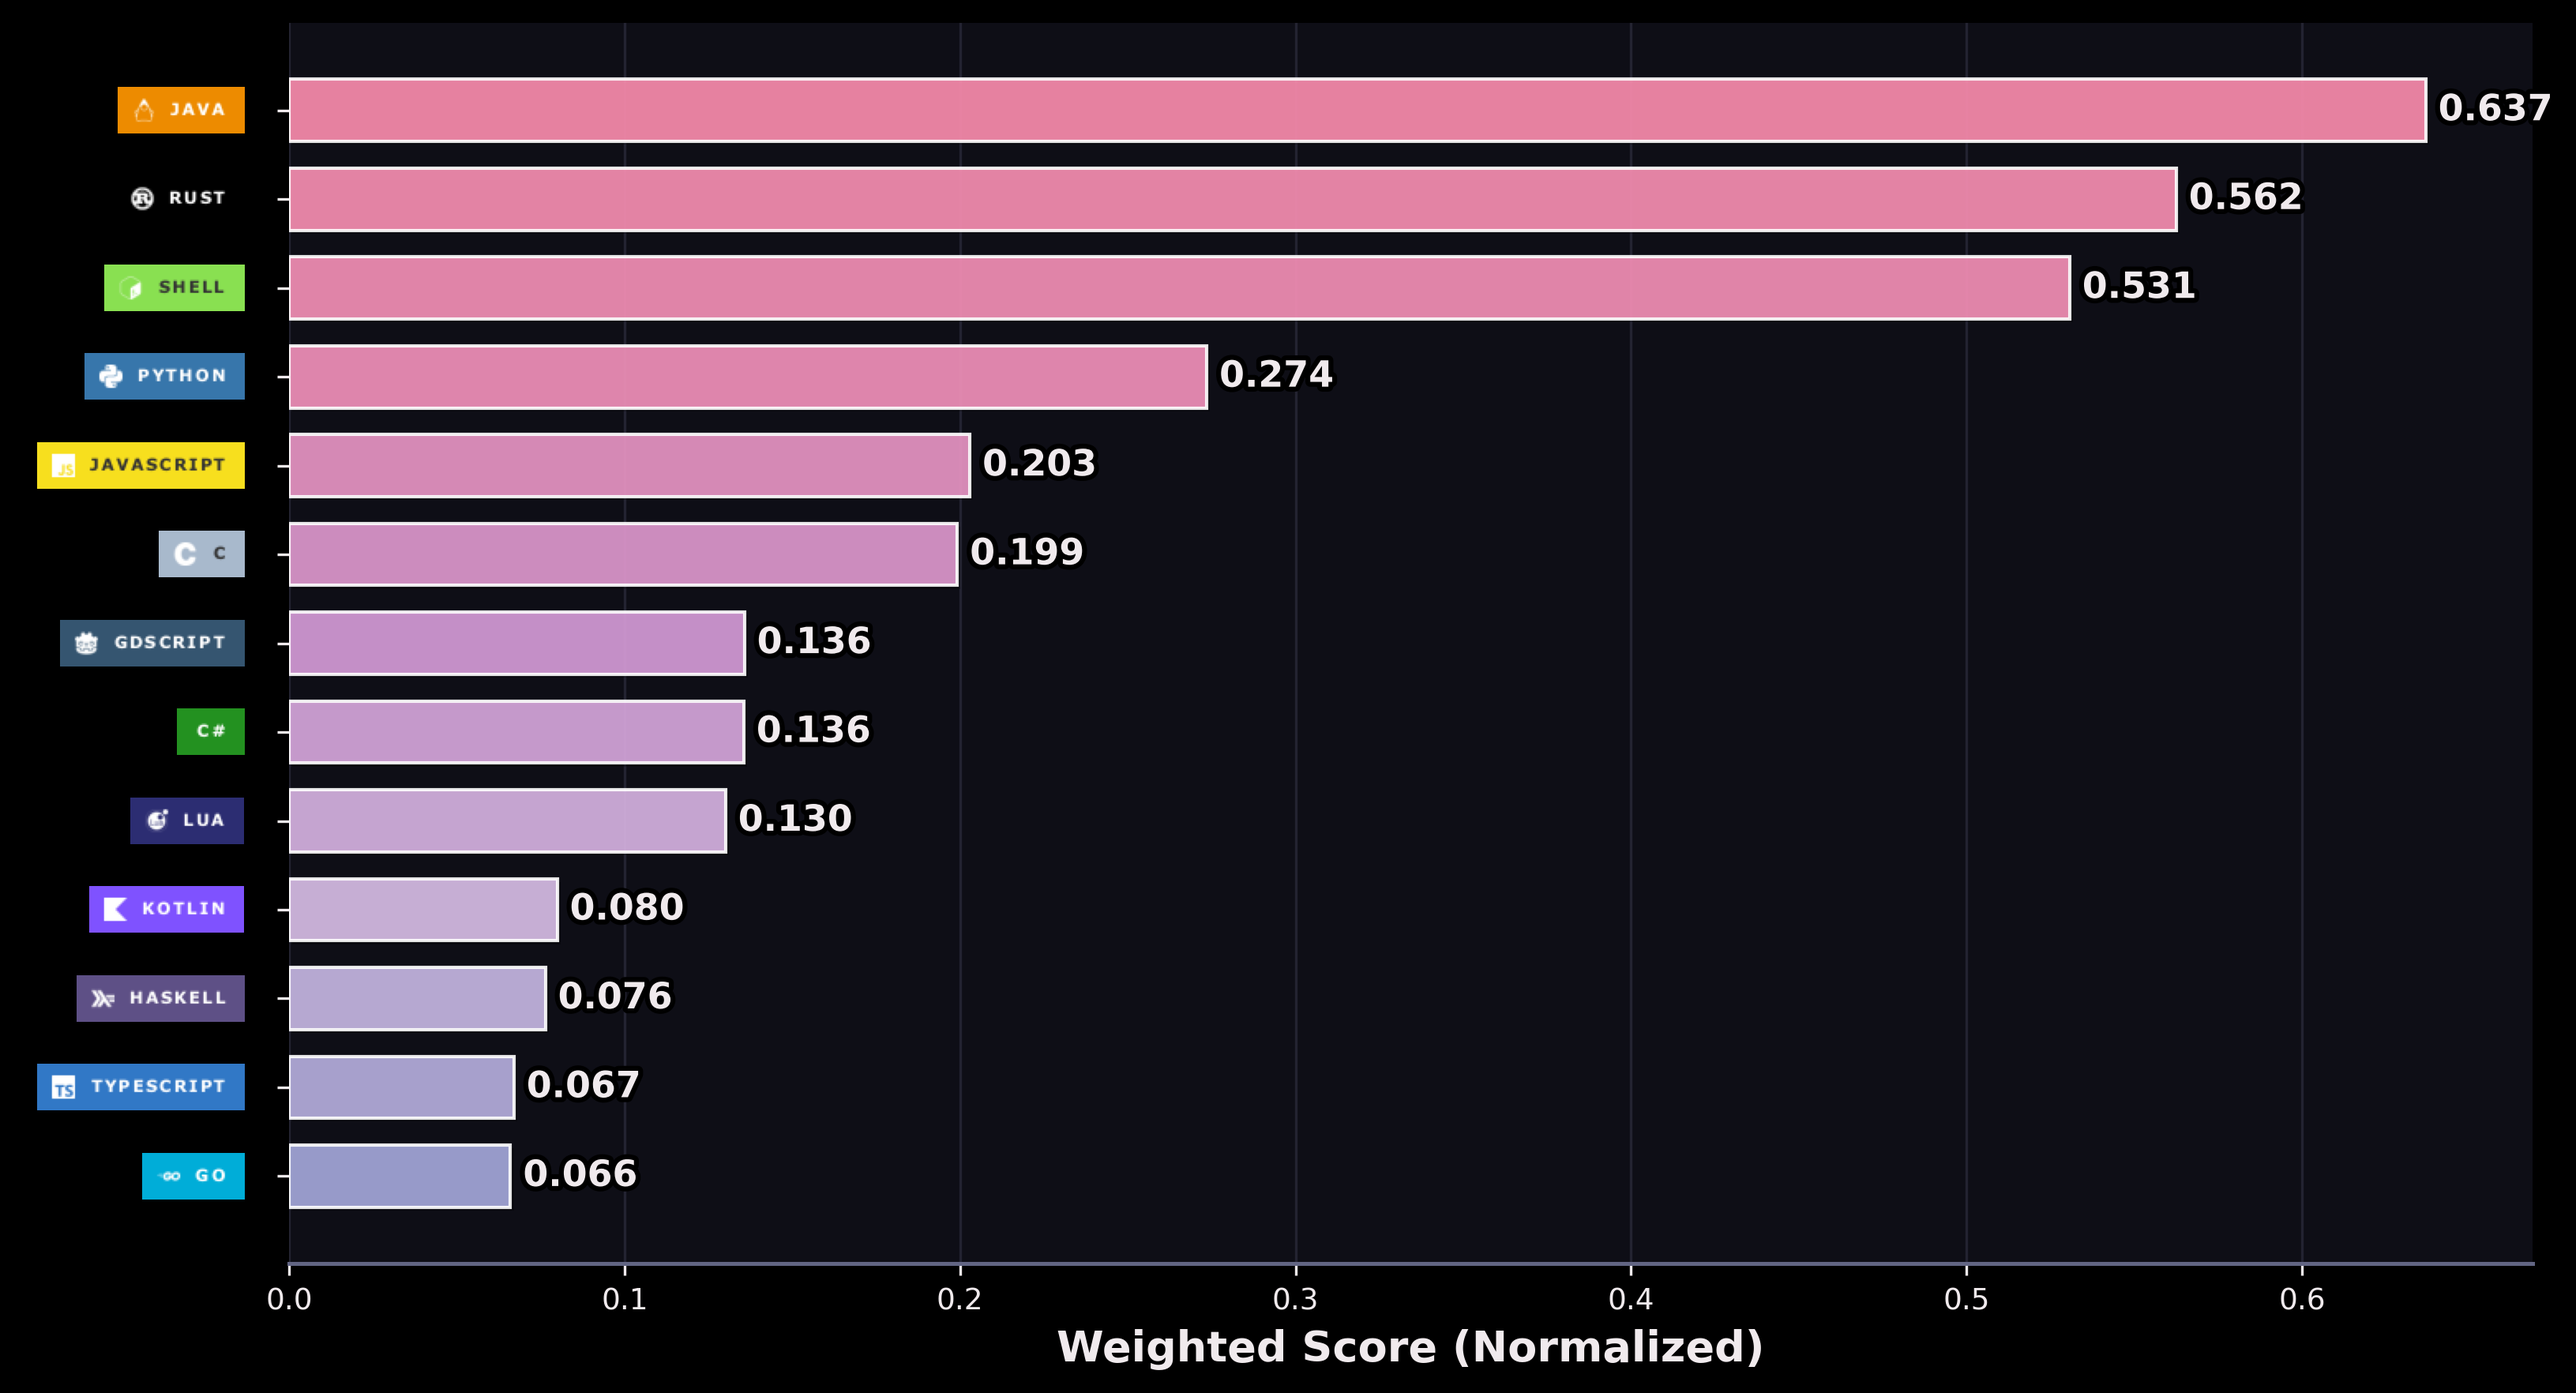
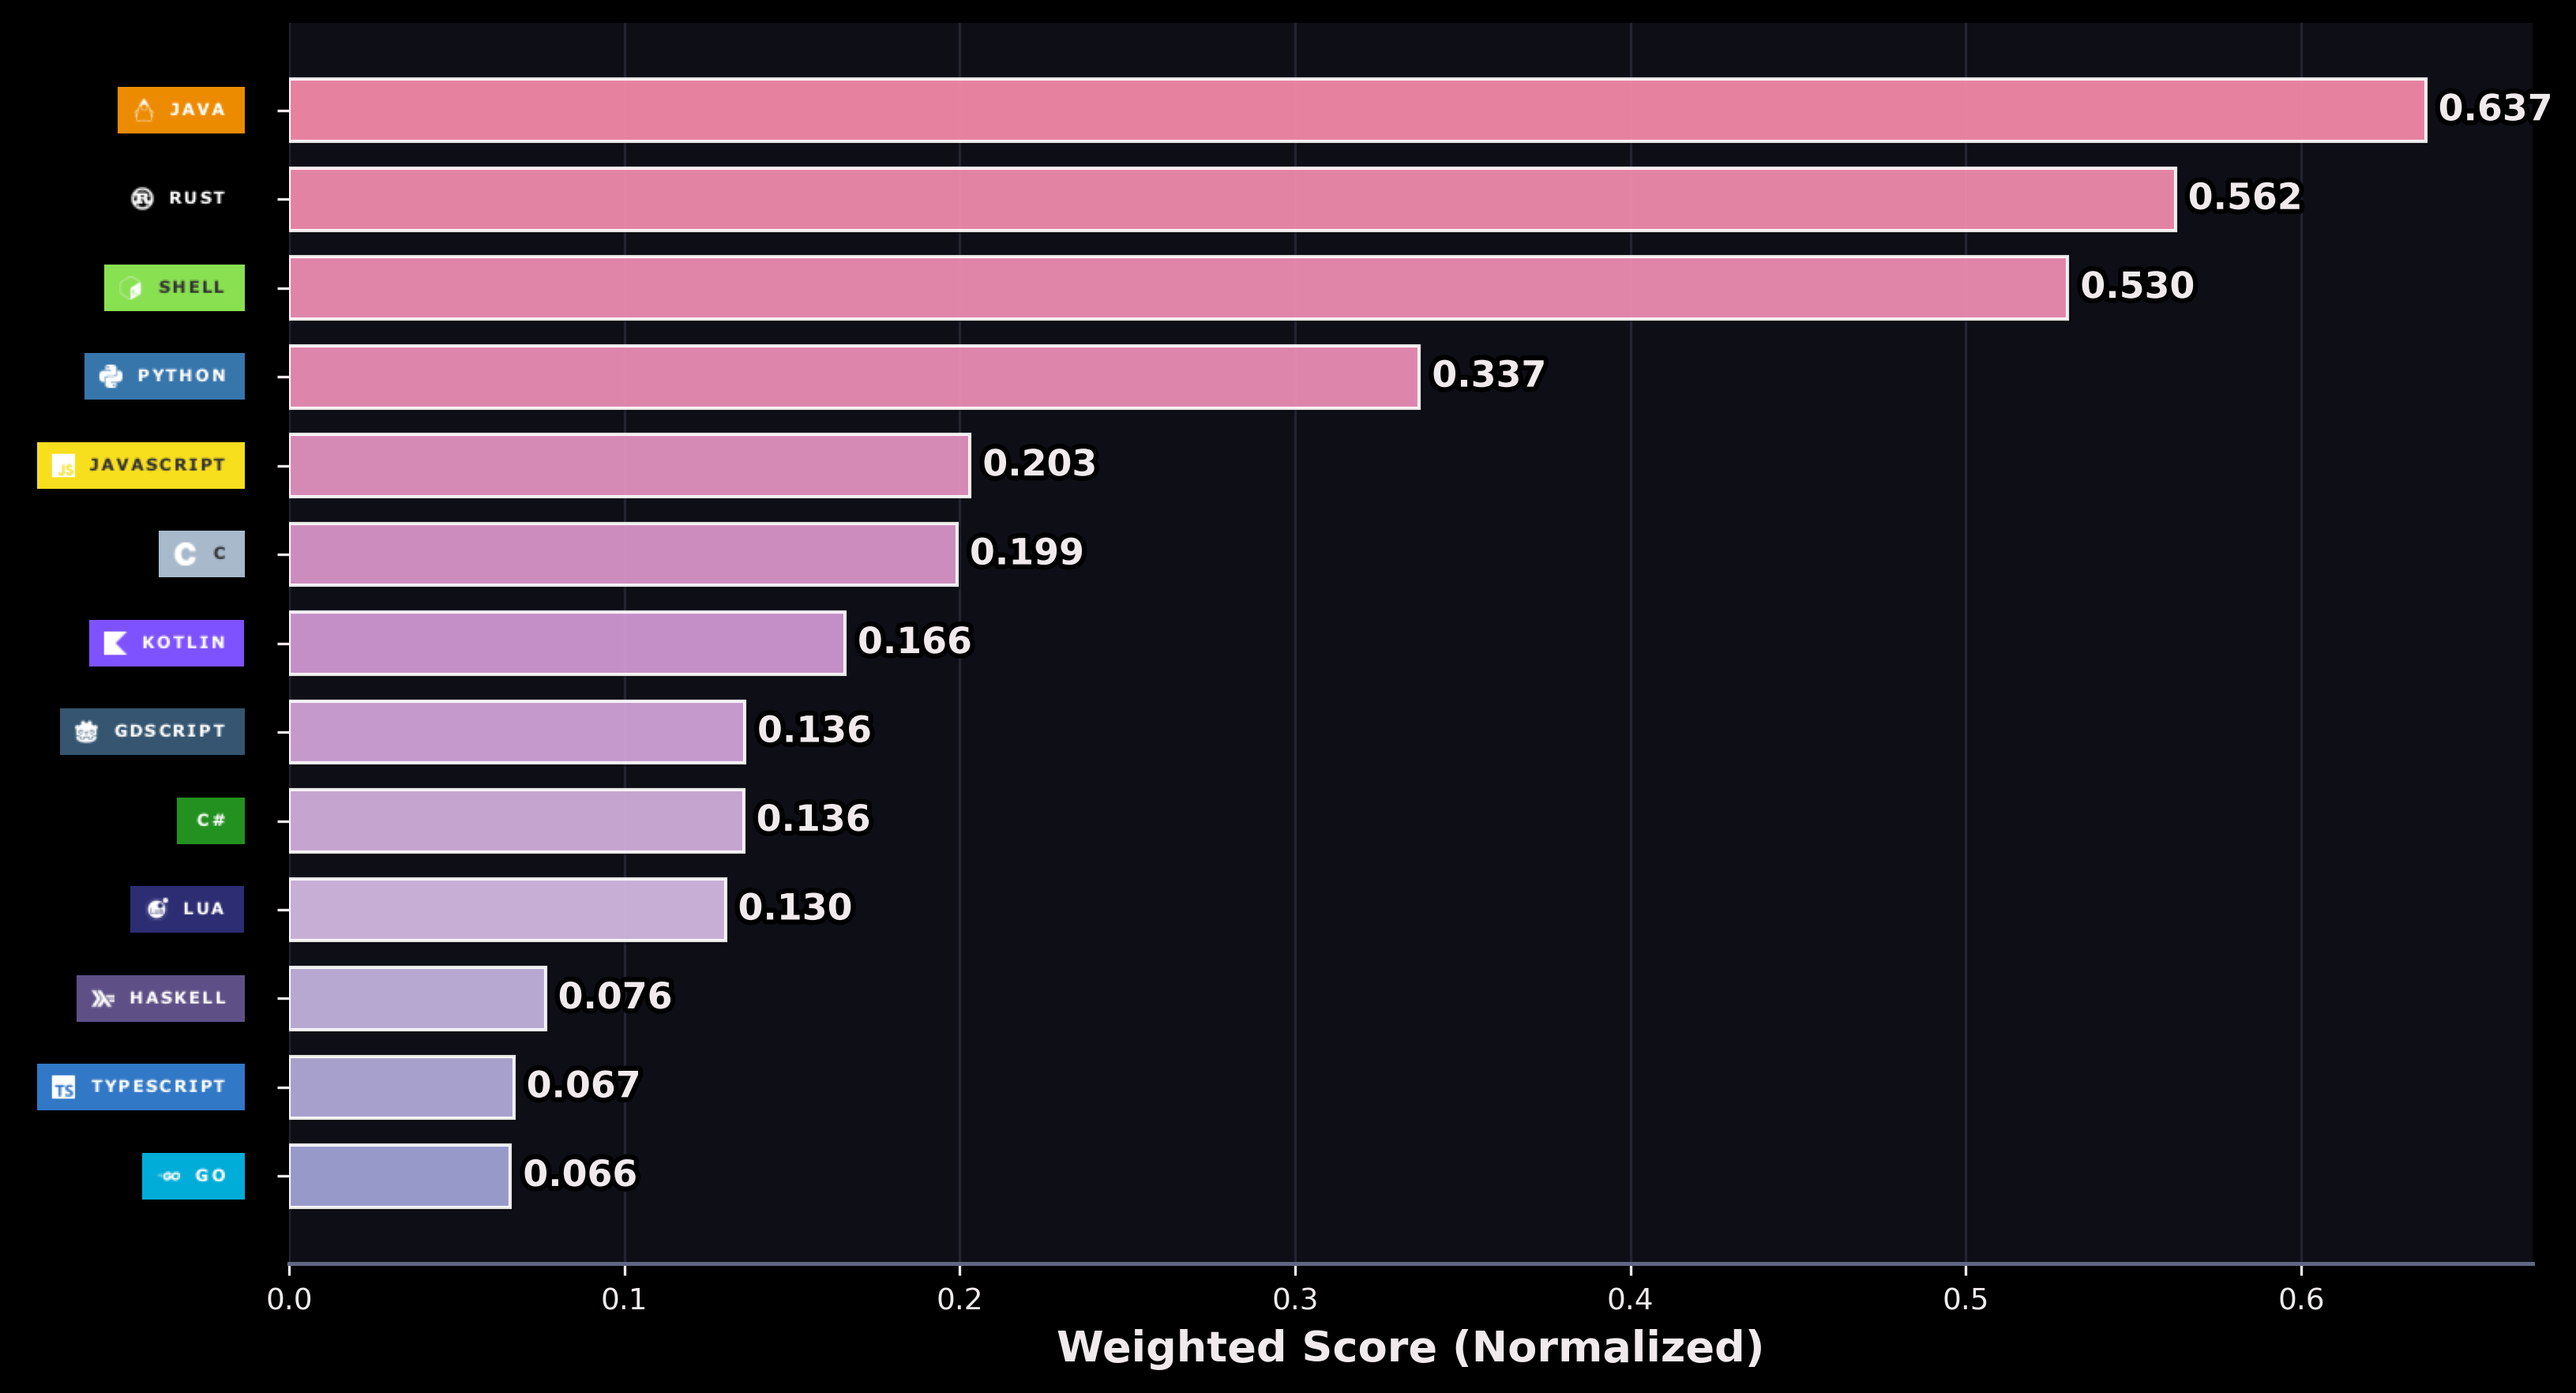
Update language statistics

diff --git a/README.md b/README.md
@@ -18,15 +18,15 @@
 
 |    | Language | Lines of code | Share |
 |:--:|:---------|----------:|:------|
-| 🥇 | Rust | 43.6K | 🌸🌸🌸🌸🌸🌸🌸🌸🌸🌸 55.0% |
-| 🥈 | Java | 11.9K | 🌸🌸🌸⬜⬜⬜⬜⬜⬜⬜ 15.1% |
-| 🥉 | JavaScript | 6.8K | 🌸🌸⬜⬜⬜⬜⬜⬜⬜⬜ 8.6% |
-| 🌸 | GDScript | 6.4K | 🌸⬜⬜⬜⬜⬜⬜⬜⬜⬜ 8.1% |
-| 🌸 | Shell | 2.7K | 🌸⬜⬜⬜⬜⬜⬜⬜⬜⬜ 3.4% |
+| 🥇 | Rust | 43.5K | 🌸🌸🌸🌸🌸🌸🌸🌸🌸🌸 53.5% |
+| 🥈 | Java | 11.9K | 🌸🌸🌸⬜⬜⬜⬜⬜⬜⬜ 14.7% |
+| 🥉 | JavaScript | 6.8K | 🌸🌸⬜⬜⬜⬜⬜⬜⬜⬜ 8.4% |
+| 🌸 | GDScript | 6.4K | 🌸⬜⬜⬜⬜⬜⬜⬜⬜⬜ 7.9% |
+| 🌸 | Kotlin | 3.5K | 🌸⬜⬜⬜⬜⬜⬜⬜⬜⬜ 4.4% |
+| 🌸 | Shell | 2.6K | 🌸⬜⬜⬜⬜⬜⬜⬜⬜⬜ 3.3% |
 | 🌸 | Python | 2.1K | 🌸⬜⬜⬜⬜⬜⬜⬜⬜⬜ 2.6% |
-| 🌸 | Kotlin | 1.5K | 🌸⬜⬜⬜⬜⬜⬜⬜⬜⬜ 1.9% |
 | 🌸 | Haskell | 1.2K | 🌸⬜⬜⬜⬜⬜⬜⬜⬜⬜ 1.5% |
-|    | other 🌱 | 3.1K | 🌸⬜⬜⬜⬜⬜⬜⬜⬜⬜ 3.9% |
+|    | other 🌱 | 3.1K | 🌸⬜⬜⬜⬜⬜⬜⬜⬜⬜ 3.8% |
 
 </div>
 <!-- ✿ languages:end ✿ -->
